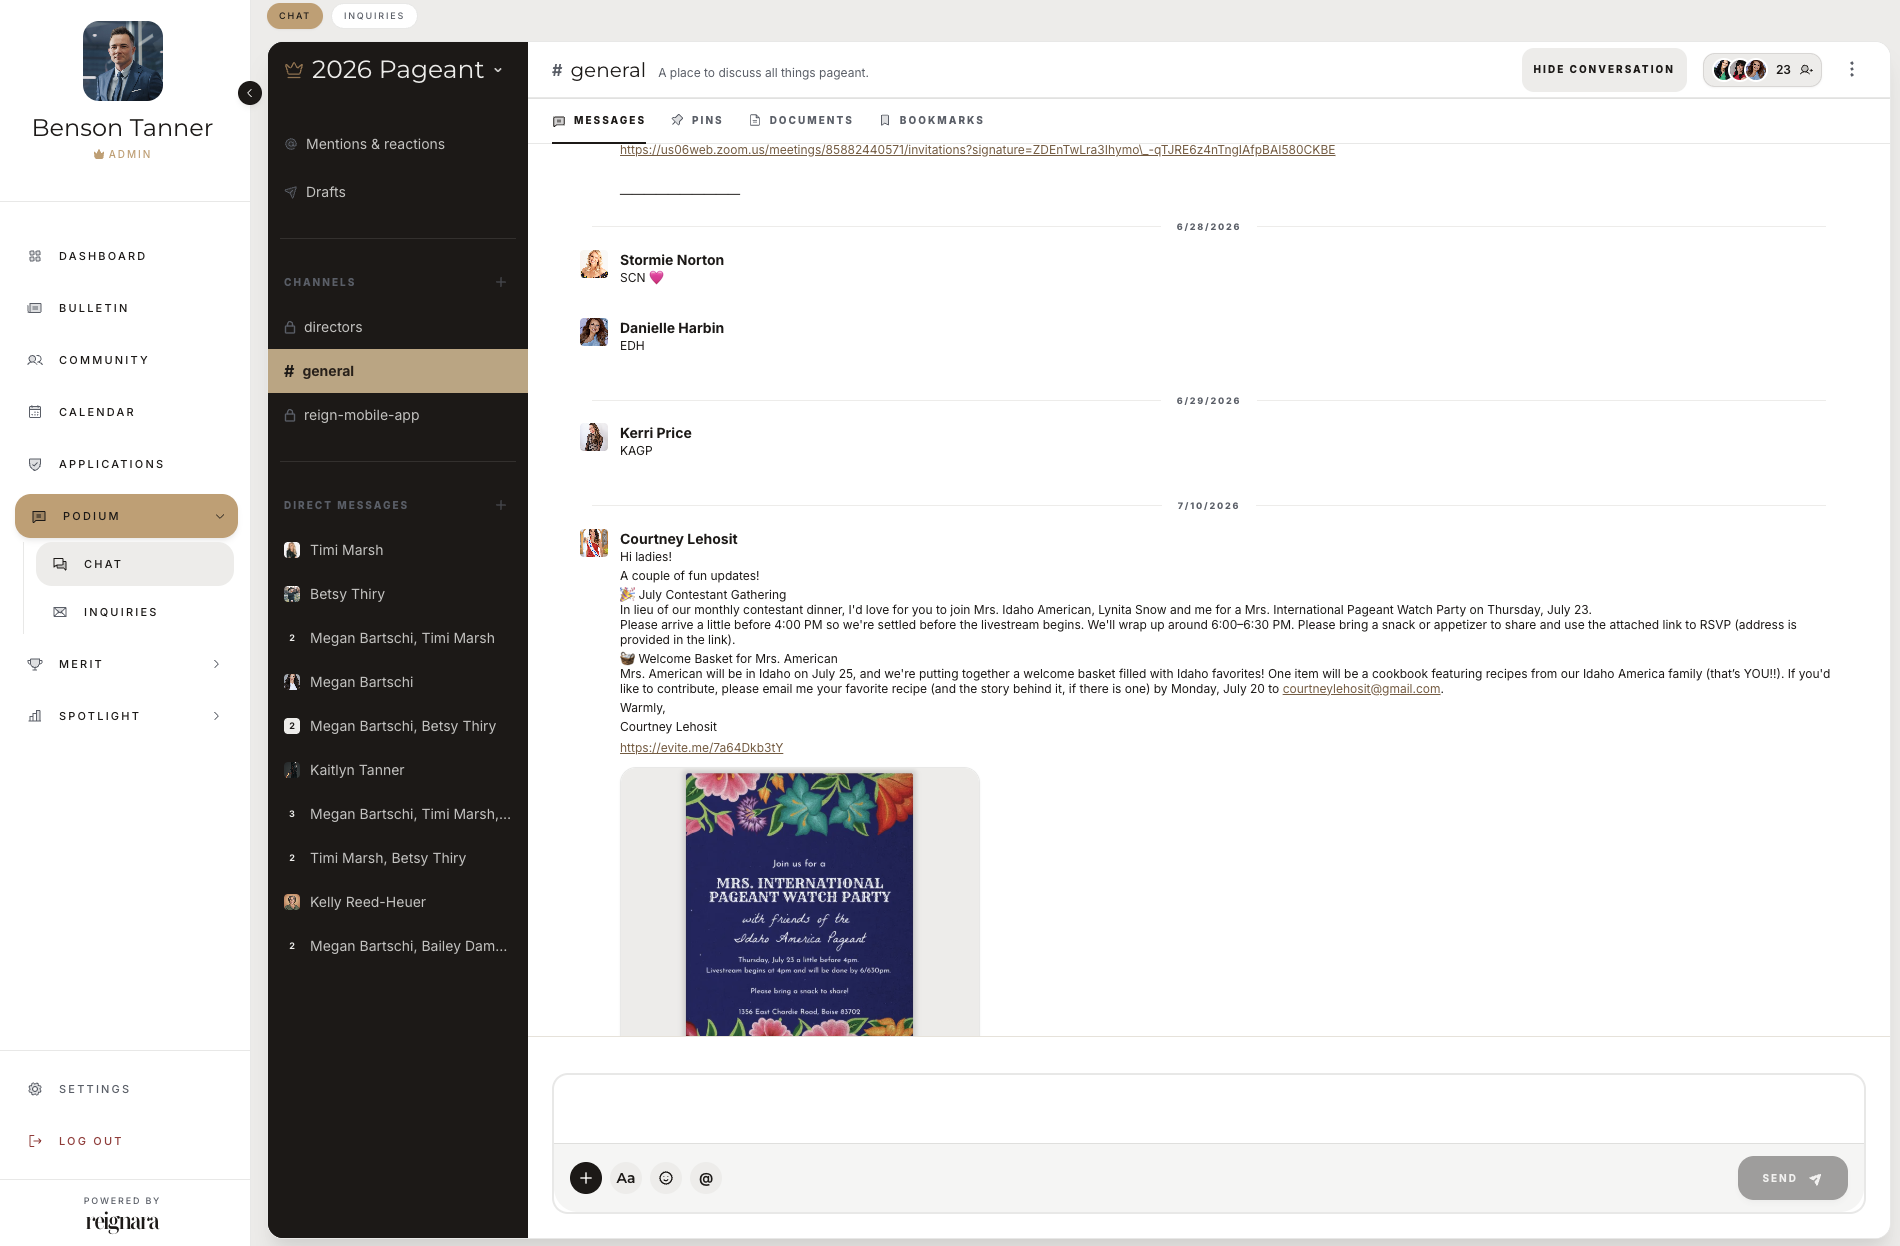
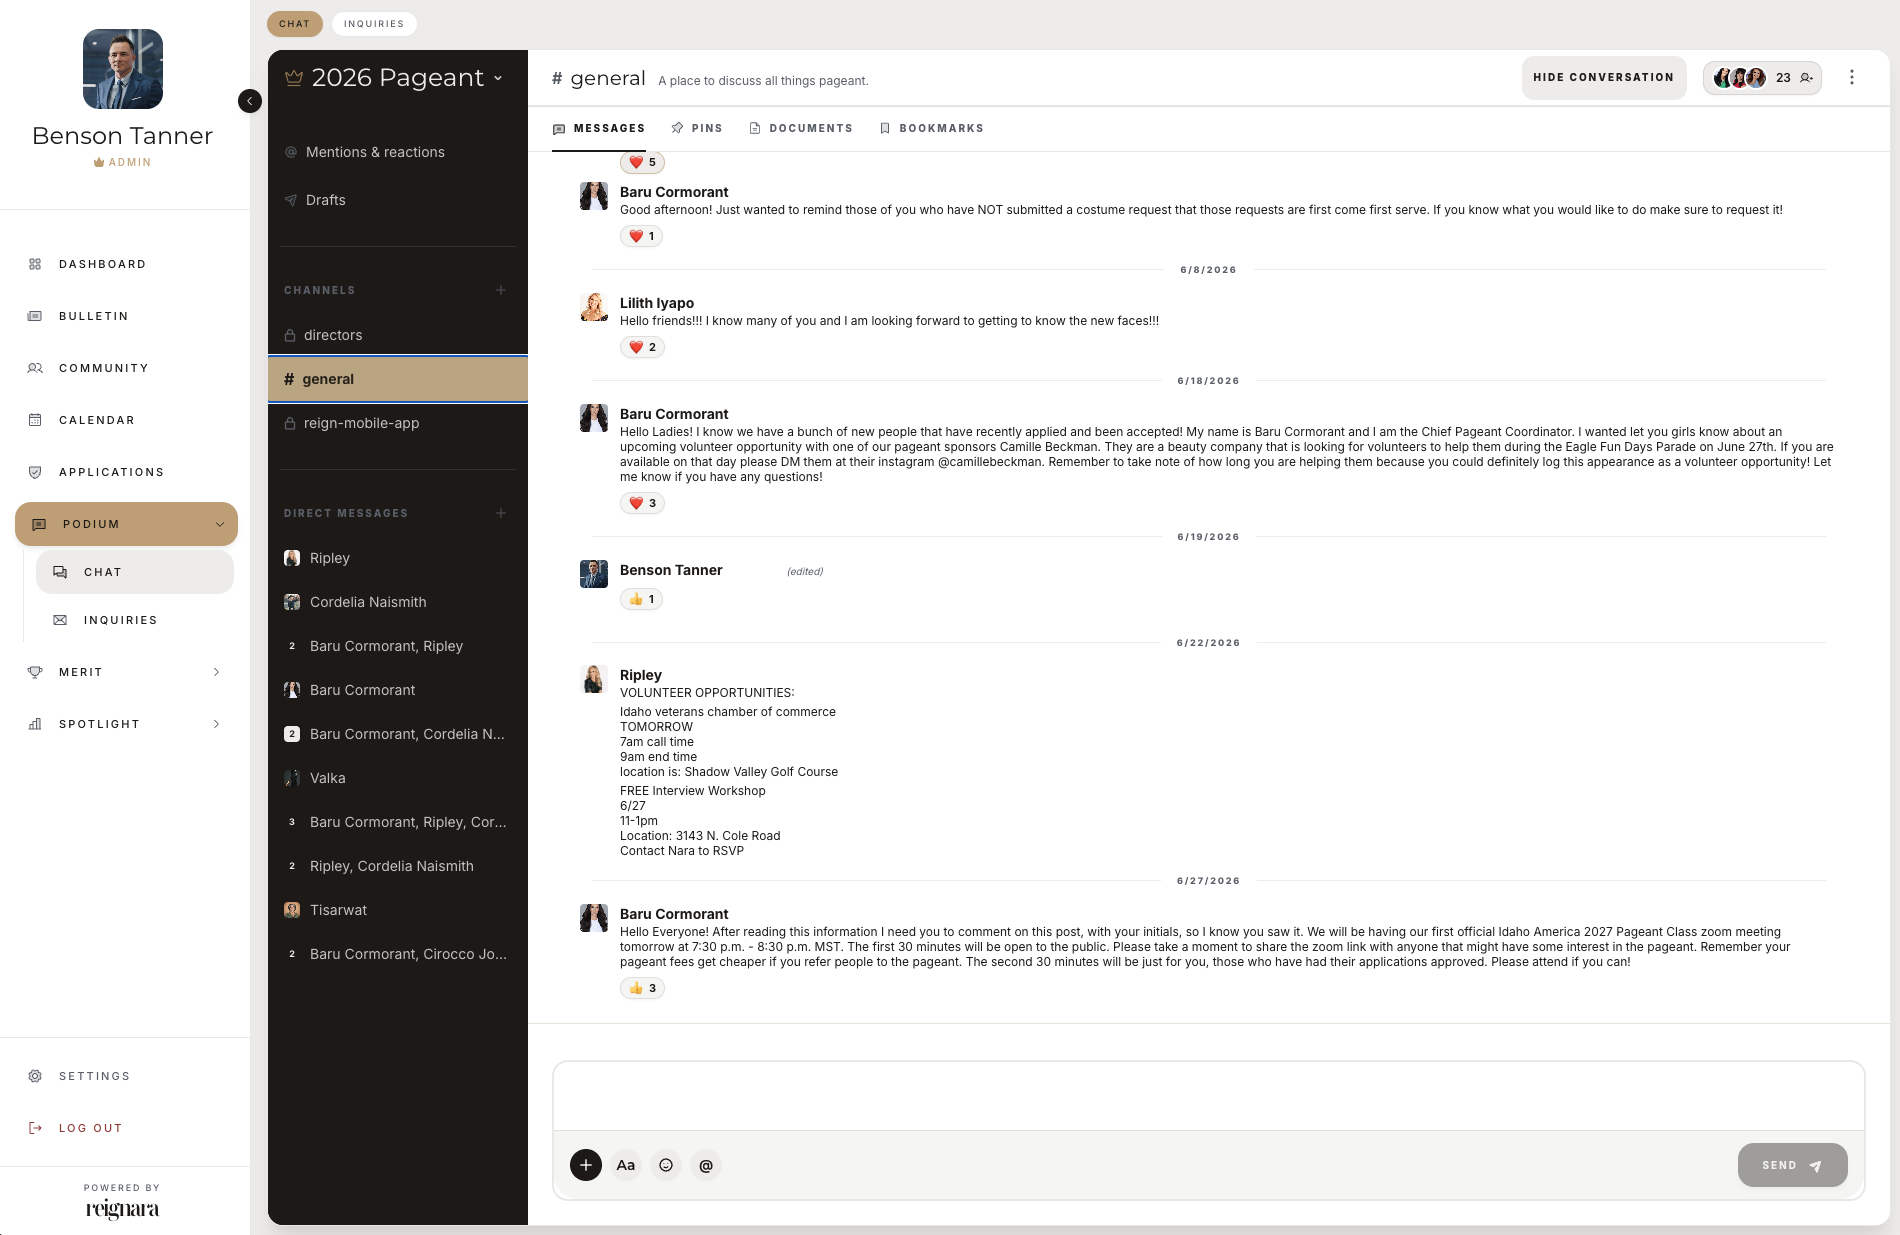
Update podium render; reduce reign fan to 3 screens

diff --git a/lib/products.ts b/lib/products.ts
@@ -115,10 +115,10 @@ export const products: Product[] = [
     tags: ["Mobile-first", "Appearance points", "Requirements"],
     layout: "mobile",
     renderAlt:
-      "Reignara Reign mobile app shown on a fan of four phones, displaying a titleholder schedule and points.",
+      "Reignara Reign mobile app shown on a fan of three phones, displaying a titleholder schedule and points.",
     aspect: 1206 / 2622,
     display: "fan",
-    screenCount: 4,
+    screenCount: 3,
     assets: assets("reign"),
   },
   {
